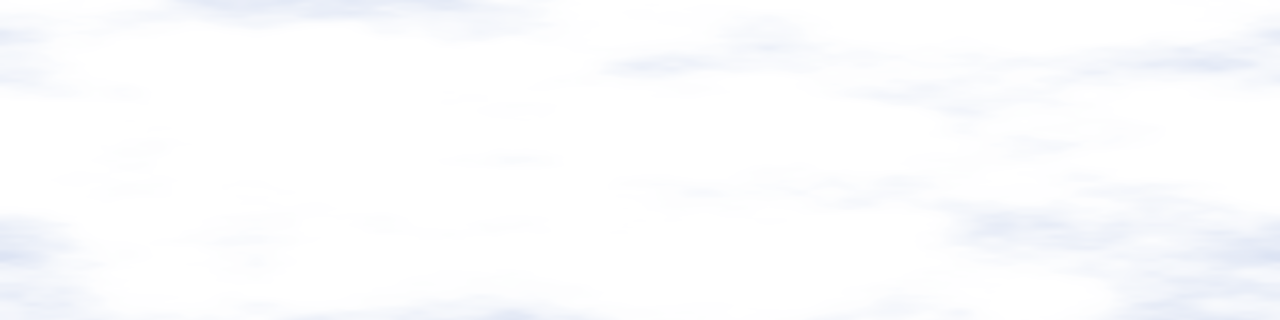
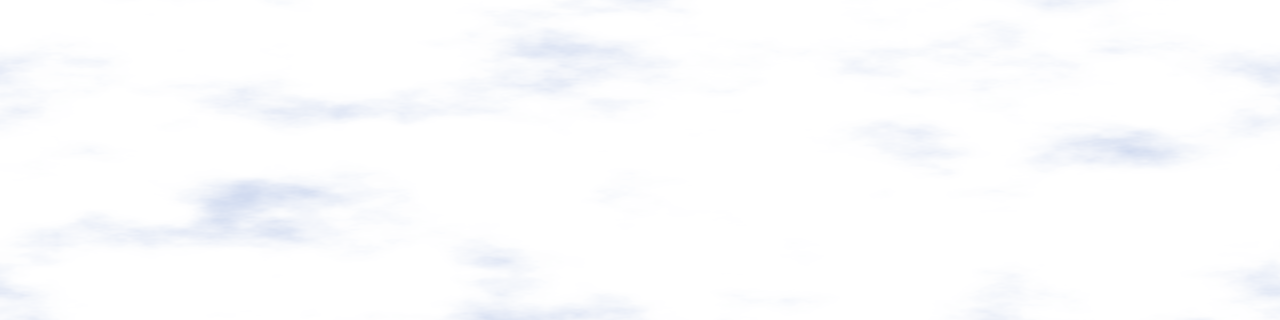
안개의 격자 기둥과 산 상단의 직선 경계를 없앤다
- 값 노이즈의 격자가 옥타브마다 같은 자리(20·40·80·160px)에 겹쳐
  세로 기둥으로 드러났다. 옥타브마다 격자를 임의로 밀어 겹치지 않게
  하고, 첫 옥타브를 8칸으로 촘촘히, 옥타브 6개로
- 산 SVG 의 skyfade 가 0.3 에서 시작해 박스 상단이 직선으로 보였다.
  0 에서 시작해 46% 까지 길게 페이드
- 안개 박스를 62vh 로 키우고 위쪽 페이드를 40% 까지 늘린다. 농도 살짝 낮춤

Assisted-by: Claude Fable 5.1

Claude-Session: https://claude.ai/code/session_01R2tnqJyoC3wXympwfFLnzP

diff --git a/components/landing/NightSky.module.css b/components/landing/NightSky.module.css
@@ -60,17 +60,17 @@
   position: absolute;
   inset-inline: 0;
   inset-block-end: 0;
-  height: clamp(320px, 54vh, 700px);
+  height: clamp(360px, 62vh, 800px);
   overflow: clip;
   pointer-events: none;
   z-index: 0;
   mask-image: linear-gradient(
     to bottom,
     var(--color-clear) 0%,
-    var(--color-mask-soft) 28%,
-    var(--color-mask) 52%,
-    var(--color-mask) 66%,
-    var(--color-mask-soft) 84%,
+    var(--color-mask-soft) 40%,
+    var(--color-mask) 60%,
+    var(--color-mask) 70%,
+    var(--color-mask-soft) 86%,
     var(--color-clear) 100%
   );
 }
@@ -88,13 +88,13 @@
 .mist::before {
   background-image: url('/cairn-mist-a.png');
   background-size: 50% 100%;
-  opacity: 0.55;
+  opacity: 0.5;
   animation: mist-drift 80s linear infinite;
 }
 .mist::after {
   background-image: url('/cairn-mist-b.png');
   background-size: 40% 100%;
-  opacity: 0.42;
+  opacity: 0.36;
   animation: mist-drift 125s linear infinite reverse;
 }
 @keyframes mist-drift {
